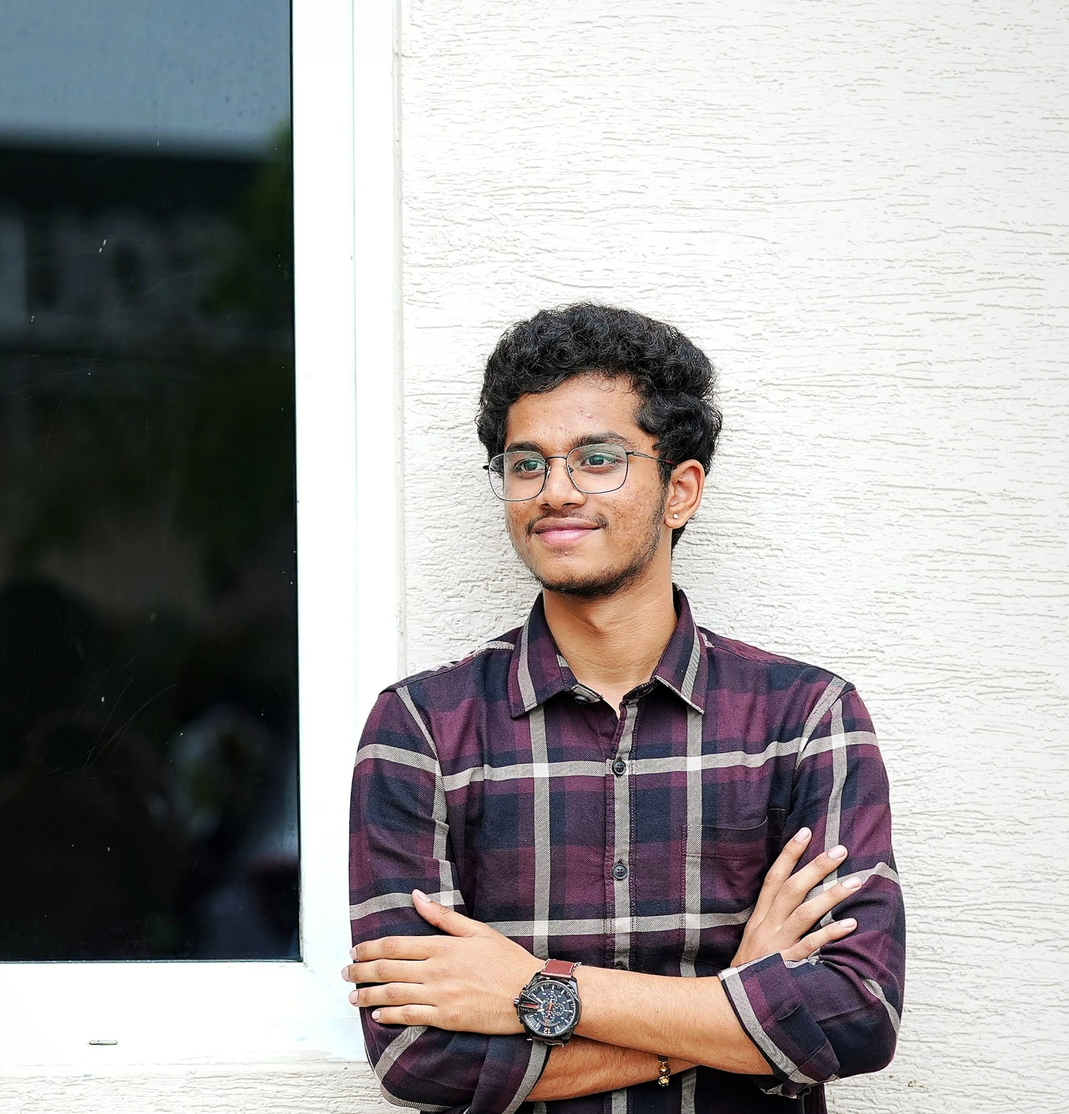
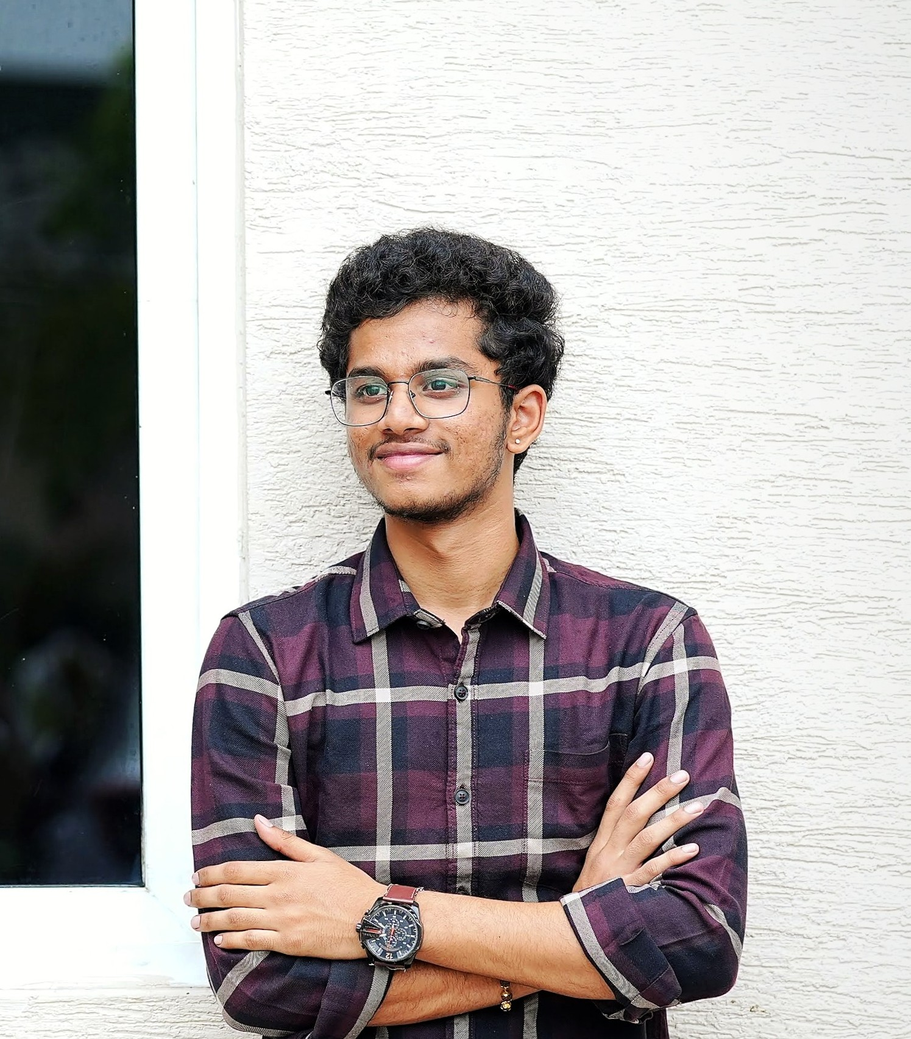
Photos Updated

diff --git a/team.html b/team.html
@@ -129,14 +129,14 @@
                 </div>
                 <div class="team-card" style="width: 100%; min-width: 0;">
                     <span class="team-year-badge badge-4th-year">🎓 4TH YEAR LEAD</span>
-                    <div class="team-photo"><img src="images/hussen.png" alt="V. Reshma Chowdary" class="team-photo-img"></div>
+                    <div class="team-photo"><img src="images/Reshma.jpeg" alt="V. Reshma Chowdary" class="team-photo-img"></div>
                     <h3 class="team-name">V. Reshma Chowdary</h3>
                     <p class="team-role">Student Coordinator</p>
                     <span class="team-branch-pill">B.Tech CSE(AI&ML)</span>
                 </div>
                 <div class="team-card" style="width: 100%; min-width: 0;">
                     <span class="team-year-badge badge-4th-year">🎓 4TH YEAR LEAD</span>
-                    <div class="team-photo"><img src="images/bb.png" alt="V. Rupesh Chowdary" class="team-photo-img"></div>
+                    <div class="team-photo"><img src="images/Rupesh.jpeg" alt="V. Rupesh Chowdary" class="team-photo-img"></div>
                     <h3 class="team-name">V. Rupesh Chowdary</h3>
                     <p class="team-role">Student Coordinator</p>
                     <span class="team-branch-pill">B.Tech IT</span>
@@ -816,12 +816,12 @@
                         <p class="team-role">Student Coordinator</p>
                     </div>
                     <div class="team-card">
-                        <div class="team-photo"><img src="images/hussen.png" alt="V. Reshma Chowdary" class="team-photo-img"></div>
+                        <div class="team-photo"><img src="images/Reshma.jpeg" alt="V. Reshma Chowdary" class="team-photo-img"></div>
                         <h3 class="team-name">V. Reshma Chowdary</h3>
                         <p class="team-role">Student Coordinator</p>
                     </div>
                     <div class="team-card">
-                        <div class="team-photo"><img src="images/bb.png" alt="V. Rupesh Chowdary" class="team-photo-img"></div>
+                        <div class="team-photo"><img src="images/Rupesh.jpeg" alt="V. Rupesh Chowdary" class="team-photo-img"></div>
                         <h3 class="team-name">V. Rupesh Chowdary</h3>
                         <p class="team-role">Student Coordinator</p>
                     </div>
@@ -868,12 +868,12 @@
                         <p class="team-role">Student Coordinator</p>
                     </div>
                     <div class="team-card">
-                        <div class="team-photo"><img src="images/hussen.png" alt="V. Reshma Chowdary" class="team-photo-img"></div>
+                        <div class="team-photo"><img src="images/Reshma.jpeg" alt="V. Reshma Chowdary" class="team-photo-img"></div>
                         <h3 class="team-name">V. Reshma Chowdary</h3>
                         <p class="team-role">Student Coordinator</p>
                     </div>
                     <div class="team-card">
-                        <div class="team-photo"><img src="images/bb.png" alt="V. Rupesh Chowdary" class="team-photo-img"></div>
+                        <div class="team-photo"><img src="images/Rupesh.jpeg" alt="V. Rupesh Chowdary" class="team-photo-img"></div>
                         <h3 class="team-name">V. Rupesh Chowdary</h3>
                         <p class="team-role">Student Coordinator</p>
                     </div>
